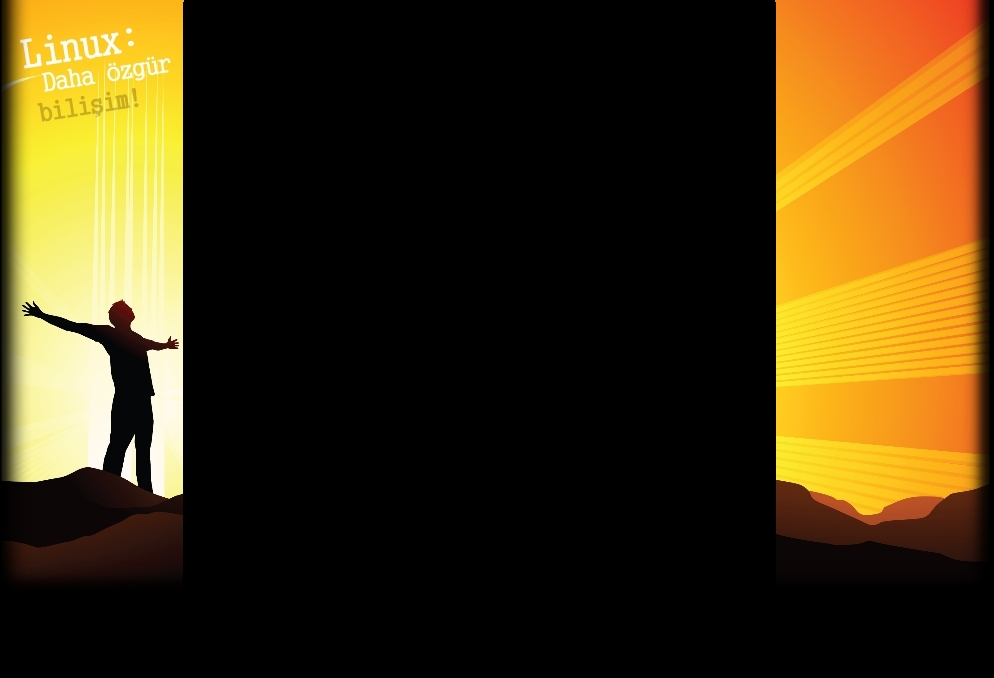
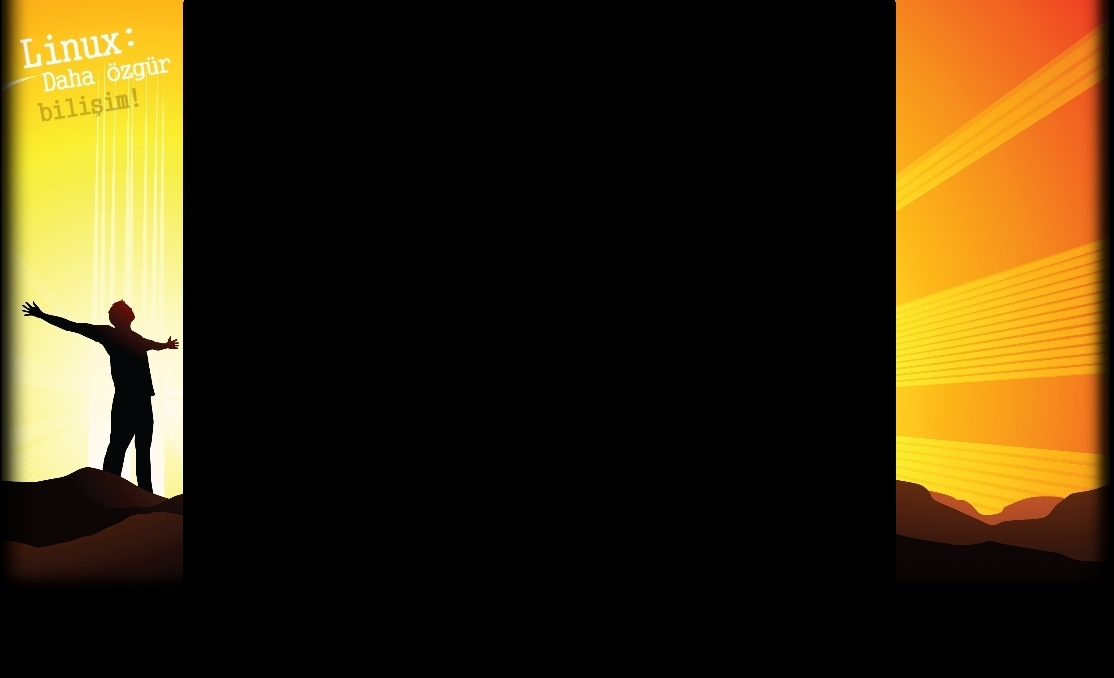
genisligi artir.

diff --git a/beta.linux.org.tr/wp-content/themes/lkdtema/css/main.css b/beta.linux.org.tr/wp-content/themes/lkdtema/css/main.css
@@ -46,11 +46,7 @@ img.logo {
 }
 
 img.button {
-    padding: 10px 5px;
-}
-
-img.last {
-    float: right;
+    padding: 0 0 5px 0;
 }
 
 ul {
@@ -114,7 +110,7 @@ span.news_description {
 
 .wrapper {
     margin: 0 auto;
-    width: 640px;
+    width: 760px;
 }
 
 #top {
@@ -217,24 +213,35 @@ span.news_description {
     background-color: #EEE;
 }
 
+#with-sidebar {
+	background-color: #FFFFCC;
+    border-bottom: 1px dashed #760707;
+    min-height: 280px;
+}
+
 #what-is-linux {
 	padding-bottom: 10px;
-	background-color: #FFFFCC;
-	border: 1px solid #760707;
-	border-left: none;
-	border-right: none;
+	text-align: justify;
+    width: 550px;
 }
 
 #what-is-linux h4 {
+	padding-top: 14px;
 	color: #333;
 	text-shadow:  2px 2px 4px #CCC;
 }
 
 #warning-dialog {
-	margin: 5px 20px;
+	margin: 0 20px;
 	padding: 5px;
 	background-color: #FFFFCC;
 	border: 1px dashed #AAA;
 	font-size: 10px;
 	text-align: justify;
+}
+
+#buttons {
+	padding: 5px 10px;
+	width: 200px;
+	float: right;
 }

diff --git a/beta.linux.org.tr/wp-content/themes/lkdtema/index.php b/beta.linux.org.tr/wp-content/themes/lkdtema/index.php
@@ -10,22 +10,24 @@
 
 <div id="page">
   <div class="wrapper" id="content">
-    <div id="buttons">
-      <a href="<?php bloginfo('siteurl'); ?>/yardim"><img class="button last" src="<?php bloginfo('template_url'); ?>/images/button-3.jpg" /></a>
-      <a href="<?php bloginfo('siteurl'); ?>/linux-nedir"><img class="button" src="<?php bloginfo('template_url'); ?>/images/button-1.jpg" /></a>
-      <a href="<?php bloginfo('siteurl'); ?>/dagitimlar-kilavuzu"><img class="button" src="<?php bloginfo('template_url'); ?>/images/button-2.jpg" /></a>
-    </div>
+    <div id="with-sidebar">
+      <div id="buttons">
+        <a href="<?php bloginfo('siteurl'); ?>/linux-nedir"><img class="button" src="<?php bloginfo('template_url'); ?>/images/button-1.jpg" /></a>
+        <a href="<?php bloginfo('siteurl'); ?>/dagitimlar-kilavuzu"><img class="button" src="<?php bloginfo('template_url'); ?>/images/button-2.jpg" /></a>
+        <a href="<?php bloginfo('siteurl'); ?>/yardim"><img class="button" src="<?php bloginfo('template_url'); ?>/images/button-3.jpg" /></a>
+      </div>
+      
+      <div id="what-is-linux">
+        <h4>Linux Nedir?</h4>
+        <p>Linux, Internet üzerinden haberleşen çok sayıda gönüllü programcının desteğiyle Linus Torvalds tarafından baştan başlanarak geliştirilmiş GNU/Linux işletim sisteminin çekirdeğidir. Daha fazla bilgi…</p>
     
-    <div id="what-is-linux">
-      <h4>Linux Nedir?</h4>
-      <p>Linux, Internet üzerinden haberleşen çok sayıda gönüllü programcının desteğiyle Linus Torvalds tarafından baştan başlanarak geliştirilmiş GNU/Linux işletim sisteminin çekirdeğidir. Daha fazla bilgi…</p>
-  
-      <h4>Özgür Yazılım Nedir?</h4>
-      <p>Yazılım ürünlerinin kişi, kurum ve kuruluşlardan bağımsız olarak geliştirilmesi, kullanılması, dağıtılması ve paylaşılması anlayışı özgür yazılım olarak bilinmektedir. Daha fazla bilgi…</p>
-  
-      <h4>Nereden Linux Bulabilirim?</h4>
-      <p>Linux, diğer birçok özgür yazılım ürünü gibi ücretsiz olarak edinilebilmektedir. Çeşitli Linux dağıtımlarının yansılarını Dosya Alanı bölümünü oluşturan FTP sunucumuzda bulabilirsiniz. LKD’nin katıldığı çeşitli fuarlarda, standımızda Linux CD’leri bulabilirsiniz. Bunun yanı sıra CD satan yerlere de başvurabilirsiniz.</p>
-    </div>
+        <h4>Özgür Yazılım Nedir?</h4>
+        <p>Yazılım ürünlerinin kişi, kurum ve kuruluşlardan bağımsız olarak geliştirilmesi, kullanılması, dağıtılması ve paylaşılması anlayışı özgür yazılım olarak bilinmektedir. Daha fazla bilgi…</p>
+    
+        <h4>Nereden Linux Bulabilirim?</h4>
+        <p>Linux, diğer birçok özgür yazılım ürünü gibi ücretsiz olarak edinilebilmektedir. Çeşitli Linux dağıtımlarının yansılarını Dosya Alanı bölümünü oluşturan FTP sunucumuzda bulabilirsiniz. LKD’nin katıldığı çeşitli fuarlarda, standımızda Linux CD’leri bulabilirsiniz. Bunun yanı sıra CD satan yerlere de başvurabilirsiniz.</p>
+      </div>
+    </div> <!-- end with-sidebar -->
 
     <!--
     <?php if (have_posts()) : ?>
